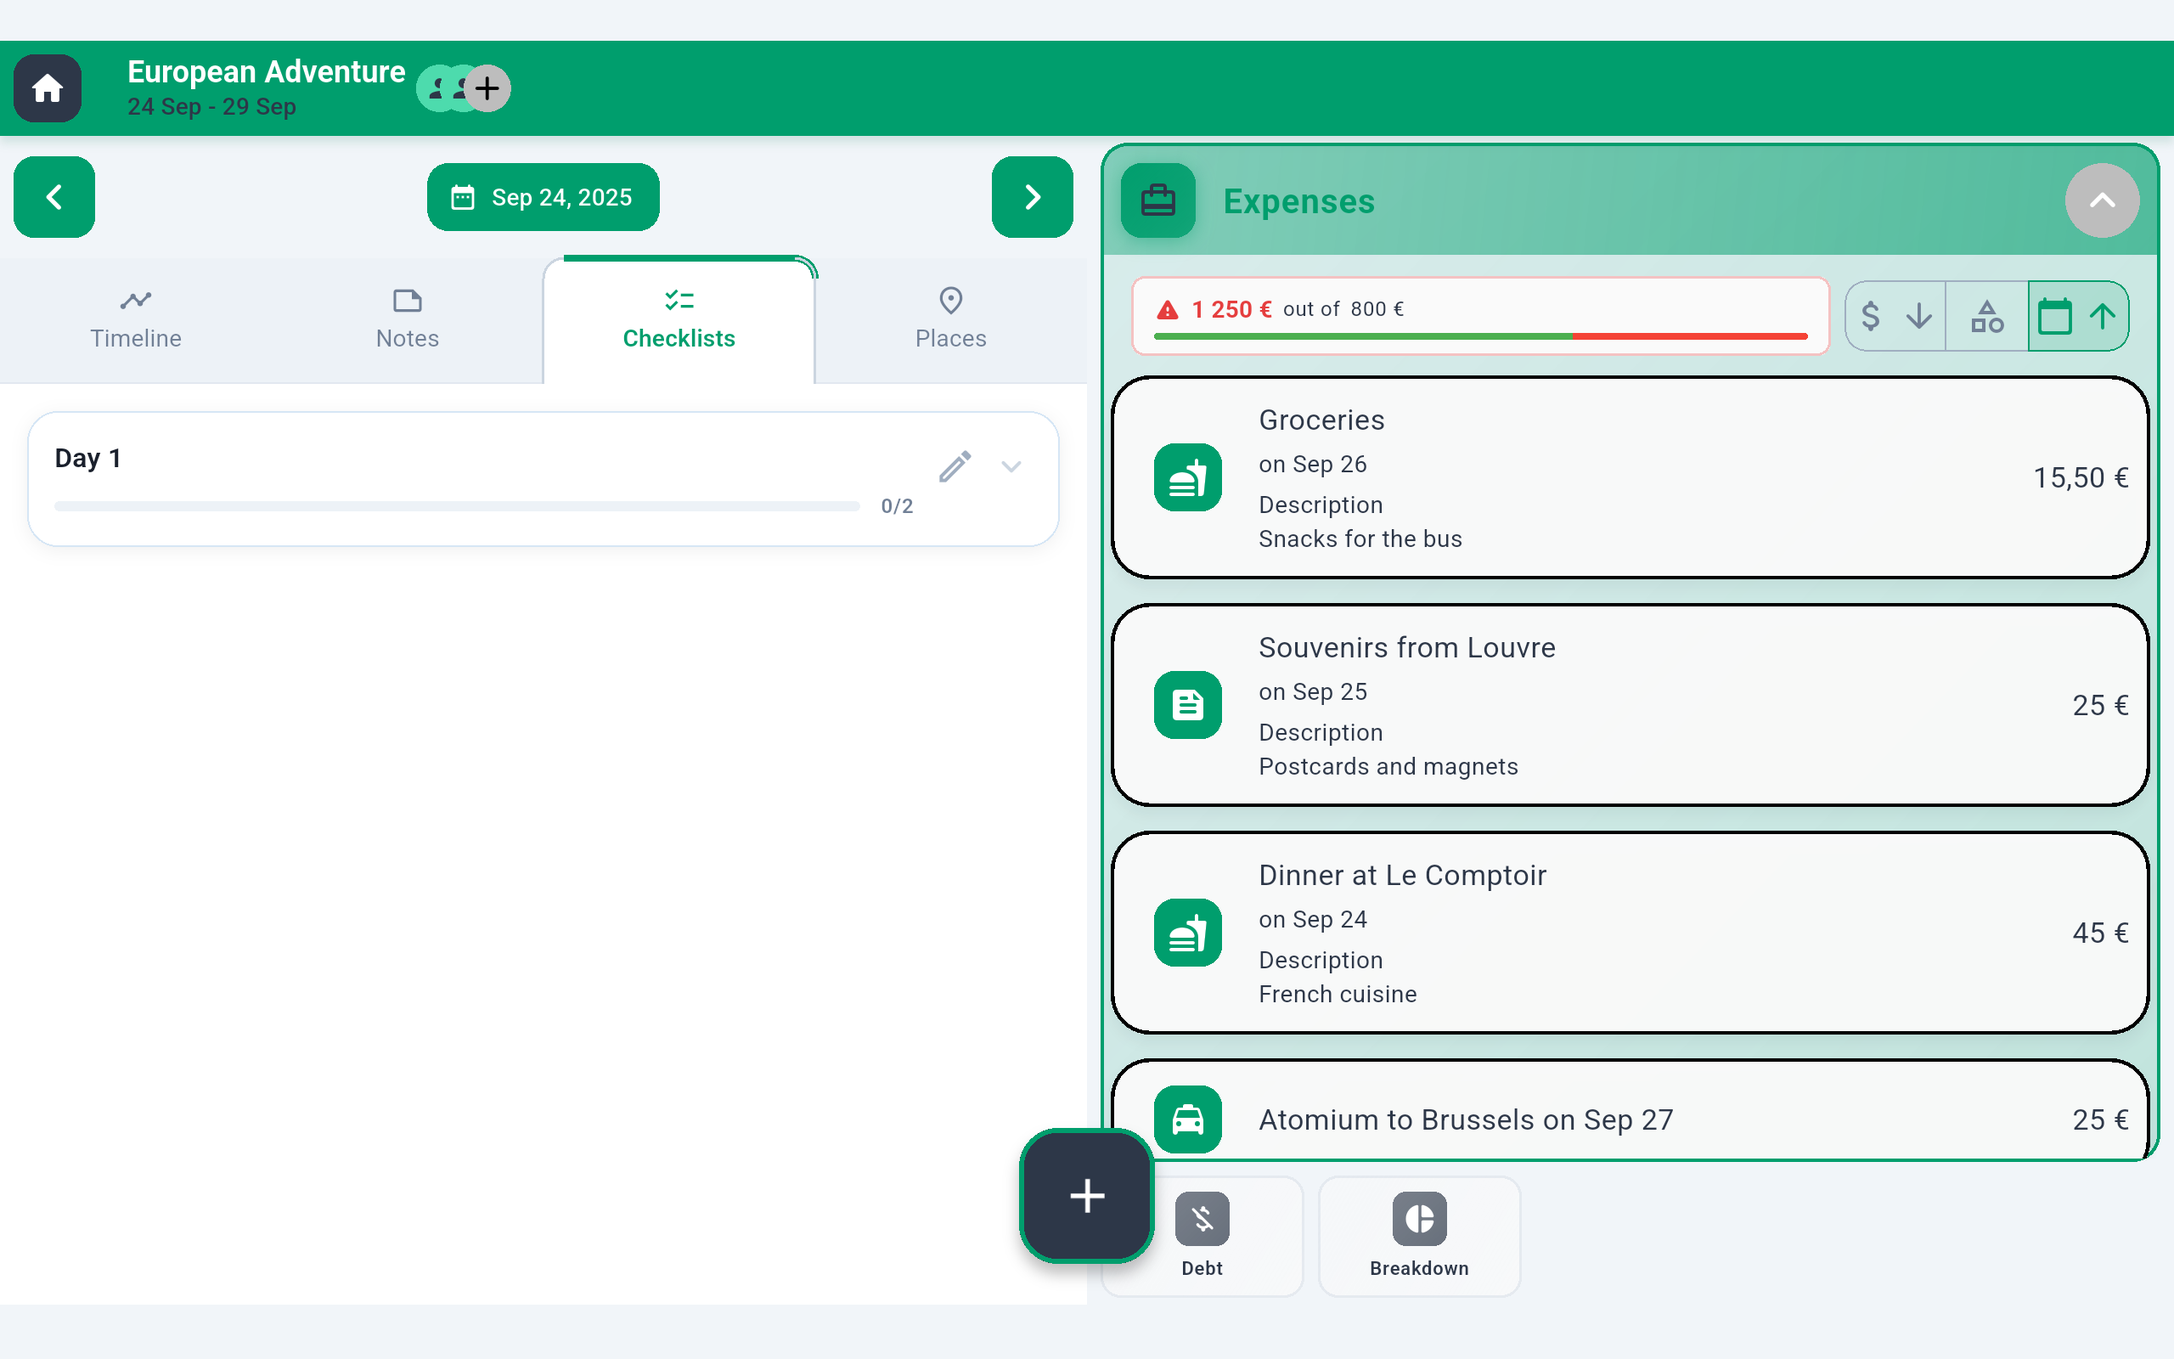
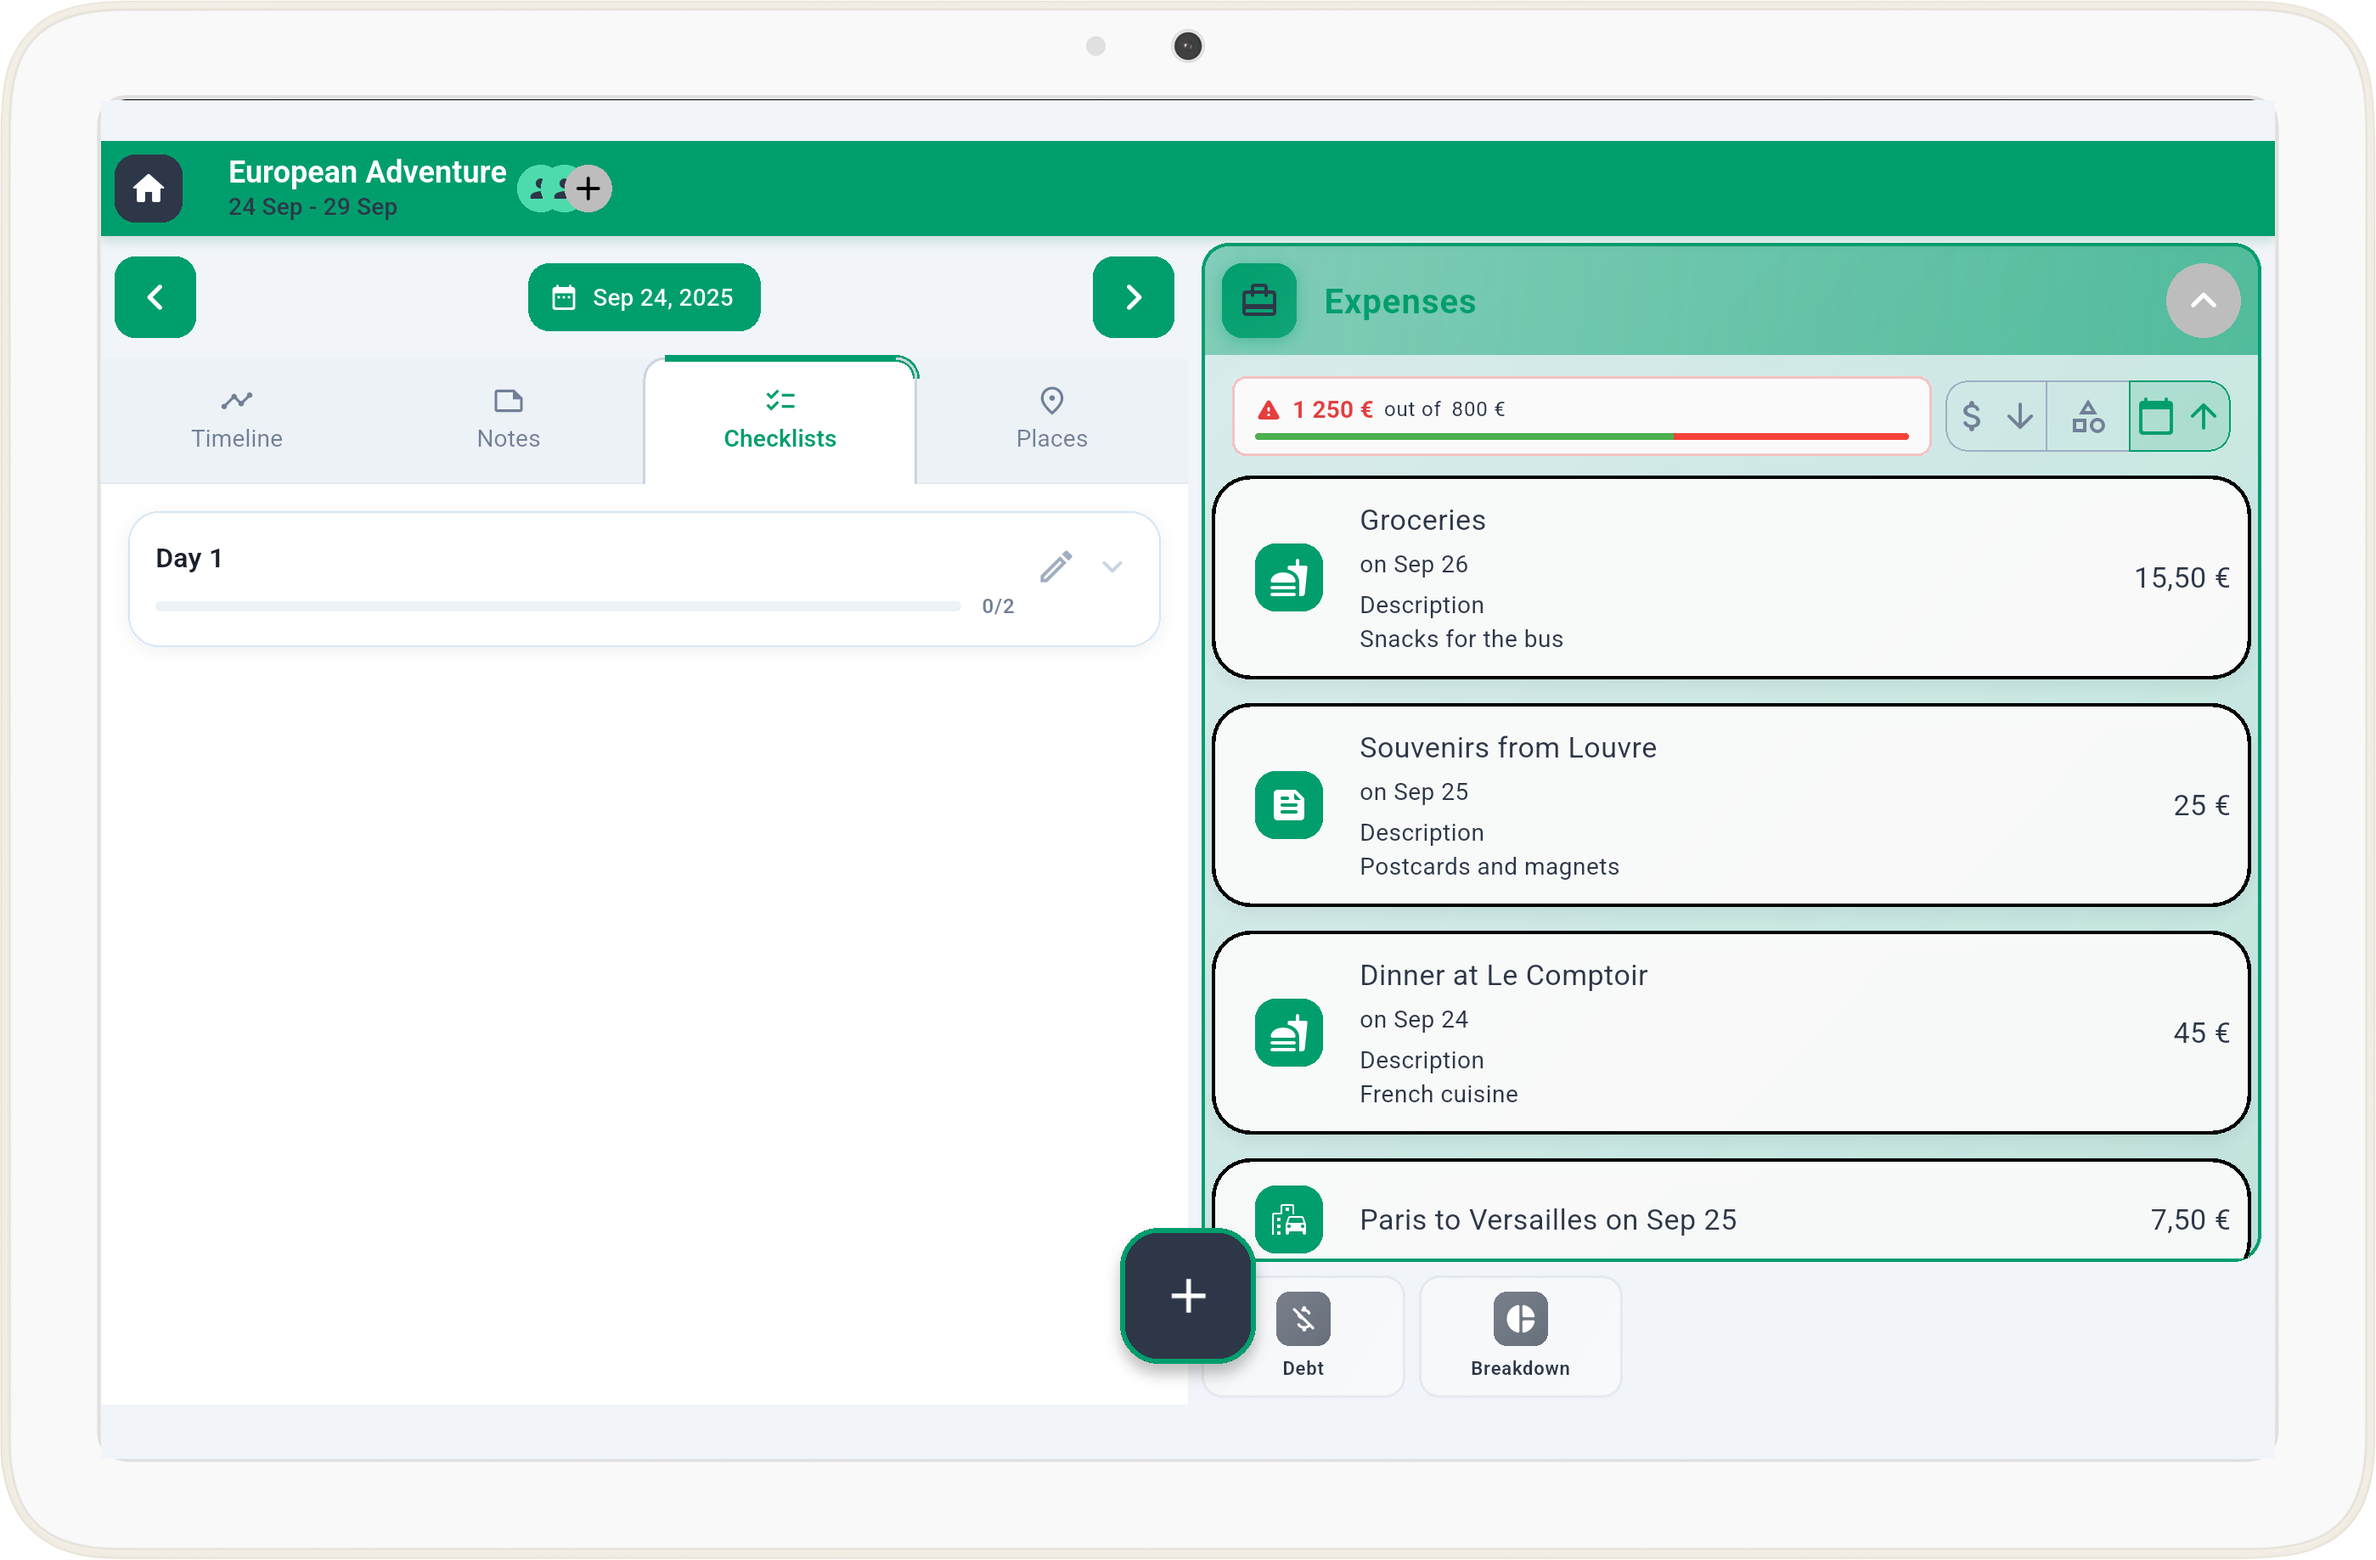
test(integration): Enhance screenshot framing logic
This commit refines the screenshot capture driver to automatically handle resolution mismatches and improve frame alignment for both phone and tablet layouts.

- **Screenshot Driver (`integration_test/screenshot_capturer/driver.dart`):**
  - Added automatic resizing logic to standardize screenshot dimensions (Phone: 1080x2337, Tablet: 2560x1600) before compositing.
  - Updated phone positioning offsets to account for notches and bezels (centered horizontally, offset vertically by 117px).
  - Clarified tablet positioning to ensure centering within the frame.

- **Assets:**
  - Updated reference screenshots for both phone and tablet across multiple features (budgeting, editors, viewers, etc.) to reflect the new framing logic.

diff --git a/integration_test/screenshot_capturer/driver.dart b/integration_test/screenshot_capturer/driver.dart
@@ -89,6 +89,28 @@ Future<List<int>> _overlayScreenshotOnFrame(
     throw Exception('Failed to decode screenshot');
   }
 
+  print('Screenshot dimensions: ${screenshot.width}x${screenshot.height}');
+
+  // Define expected screenshot dimensions for each device type
+  final expectedWidth = isPhone ? 1080 : 2560;
+  final expectedHeight = isPhone ? 2337 : 1600;
+
+  // Check if screenshot needs to be resized to match expected dimensions
+  img.Image finalScreenshot = screenshot;
+  if (screenshot.width != expectedWidth ||
+      screenshot.height != expectedHeight) {
+    print(
+        'Warning: Screenshot dimensions (${screenshot.width}x${screenshot.height}) '
+        'do not match expected ($expectedWidth x$expectedHeight)');
+    print('Resizing screenshot to fit frame...');
+    finalScreenshot = img.copyResize(
+      screenshot,
+      width: expectedWidth,
+      height: expectedHeight,
+      interpolation: img.Interpolation.linear,
+    );
+  }
+
   // Load the appropriate device frame
   final framePath = isPhone
       ? 'integration_test/screenshot_capturer/phone_frame.png'
@@ -105,26 +127,46 @@ Future<List<int>> _overlayScreenshotOnFrame(
     throw Exception('Failed to decode device frame');
   }
 
-  // Calculate position to center the screenshot on the frame
+  print('Frame dimensions: ${frame.width}x${frame.height}');
+
+  // Calculate position to place the screenshot on the frame
   // Phone: Frame 1198x2539, Screenshot 1080x2337
   // Tablet: Frame 2798x1837, Screenshot 2560x1600
   final int offsetX;
   final int offsetY;
 
   if (isPhone) {
-    // Phone frame dimensions: 1198x2539, screenshot: 1080x2337
-    offsetX = (1198 - 1080) ~/ 2; // Center horizontally
-    offsetY = (2539 - 2337) ~/ 2; // Center vertically
+    // Phone frame dimensions: 1198x2539
+    // Expected screenshot: ~1080x2337
+    // The frame has bezels and a notch. The screen area is NOT centered due to the notch.
+
+    // Horizontal: center the screenshot
+    offsetX = (frame.width - finalScreenshot.width) ~/ 2;
+
+    // Vertical positioning:
+    // For phone frames with notches, the screen area typically starts below the notch
+    // and the top bezel is thicker than the bottom bezel.
+    // With 202px total space, if top bezel is ~117px and bottom is ~85px,
+    // the screen content area starts at offsetY = 117.
+    // This positions the screenshot below the notch area.
+    offsetY = 117;
+
+    print(
+        'Phone positioning: notch-adjusted with offsets ($offsetX, $offsetY)');
   } else {
     // Tablet frame dimensions: 2798x1837, screenshot: 2560x1600
-    offsetX = (2798 - 2560) ~/ 2; // Center horizontally
-    offsetY = (1837 - 1600) ~/ 2; // Center vertically
+    offsetX = (frame.width - finalScreenshot.width) ~/ 2; // Center horizontally
+    offsetY = (frame.height - finalScreenshot.height) ~/ 2; // Center vertically
+
+    print('Tablet positioning: centered with offsets ($offsetX, $offsetY)');
   }
+
+  print('Positioning screenshot at offset: ($offsetX, $offsetY)');
 
   // Composite the screenshot onto the frame
   final composite = img.compositeImage(
     frame,
-    screenshot,
+    finalScreenshot,
     dstX: offsetX,
     dstY: offsetY,
   );
